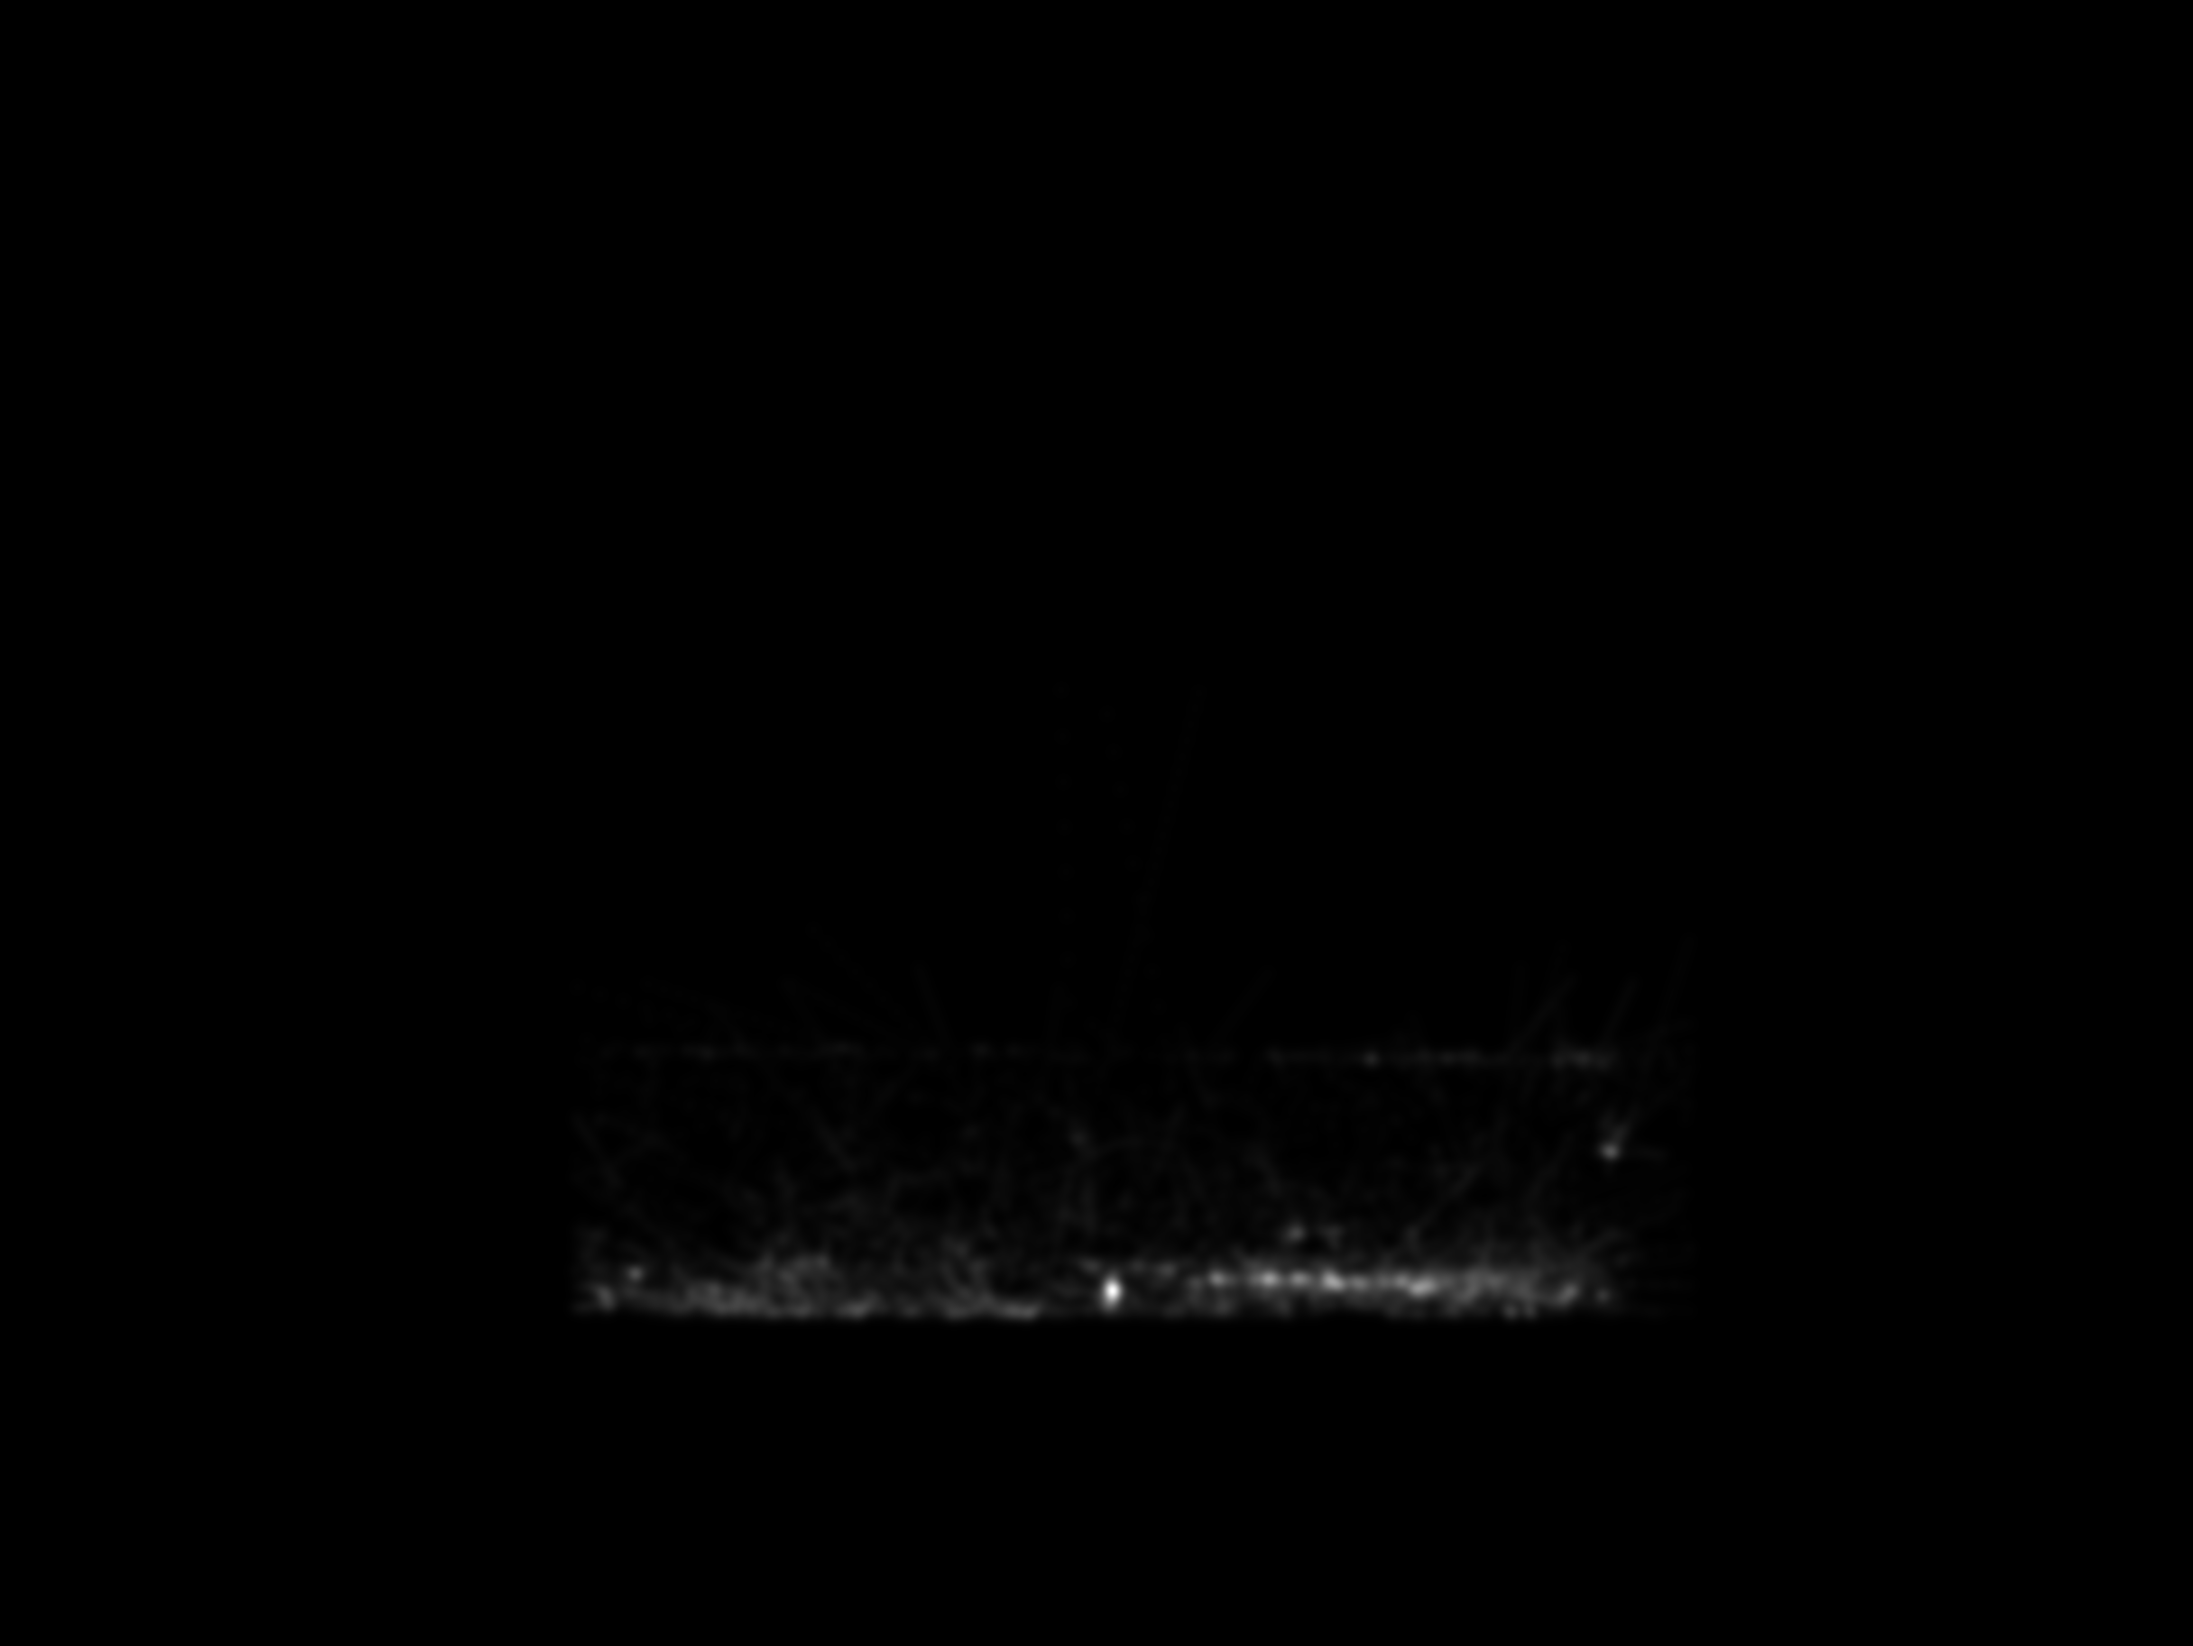
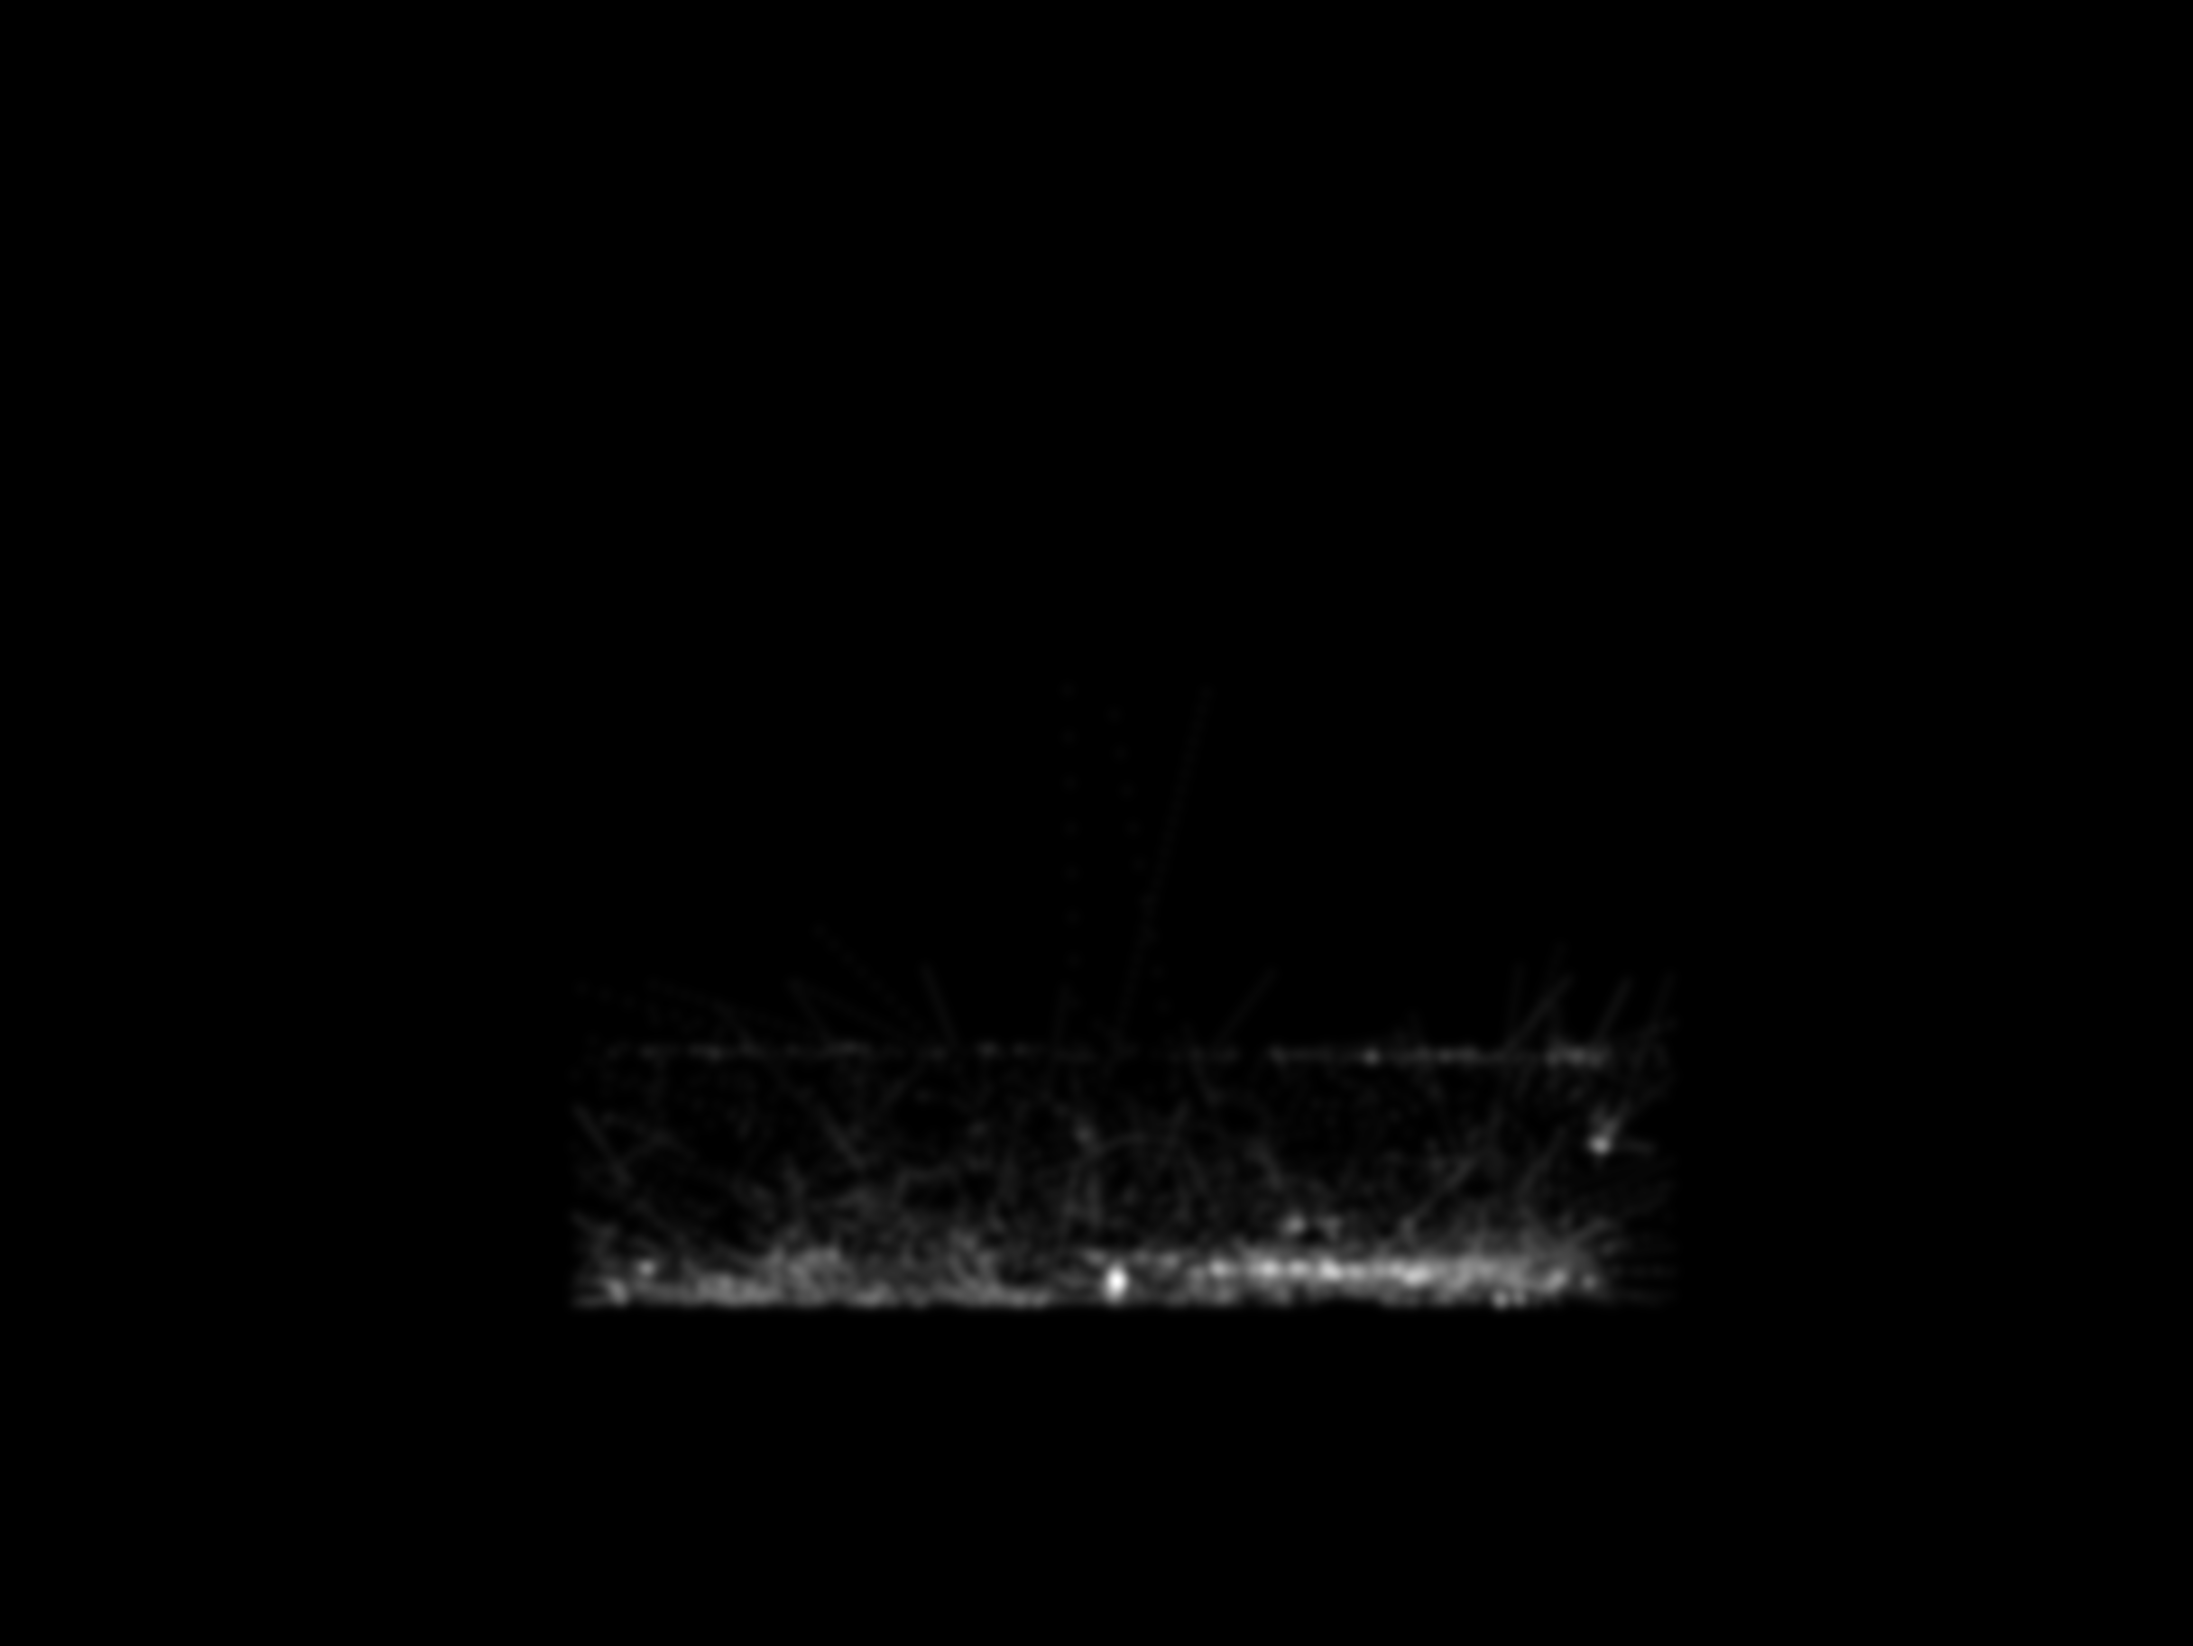
color

Changed region(s): [[0.2491, 0.7154, 0.7474, 0.8088], [0.7163, 0.6843, 0.7474, 0.7154]]

diff --git a/plan_heatmap.py b/plan_heatmap.py
@@ -72,7 +72,11 @@ def _accumulate_heatmap(points_plan: np.ndarray, H: int, W: int):
 def _smooth_heatmap(heat: np.ndarray, kernel_size: int = 35, sigma: float = 0):
     # Ensure kernel is odd
     kernel_size = kernel_size if kernel_size % 2 == 1 else kernel_size + 1
-    return cv2.GaussianBlur(heat, (kernel_size, kernel_size), sigma)
+    smoothed = cv2.GaussianBlur(heat, (kernel_size, kernel_size), sigma)
+    # Apply a logarithmic scale to compress the range of high values
+    # and bring out more detail in the lower-intensity areas.
+    # Add 1 to avoid log(0) errors.
+    return np.log1p(smoothed)
 
 
 def _colorize_and_overlay(plan_bgr: np.ndarray, heat: np.ndarray, alpha: float = 0.6, colormap=cv2.COLORMAP_JET):
